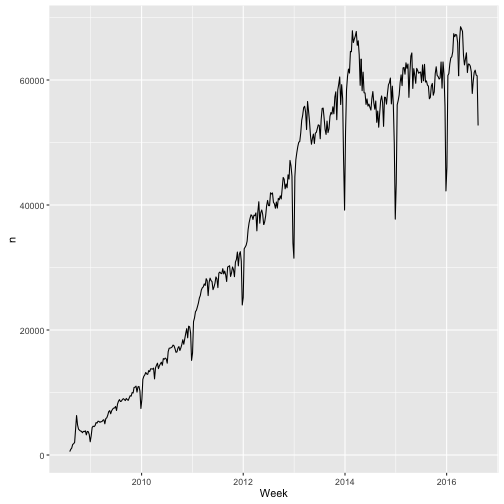
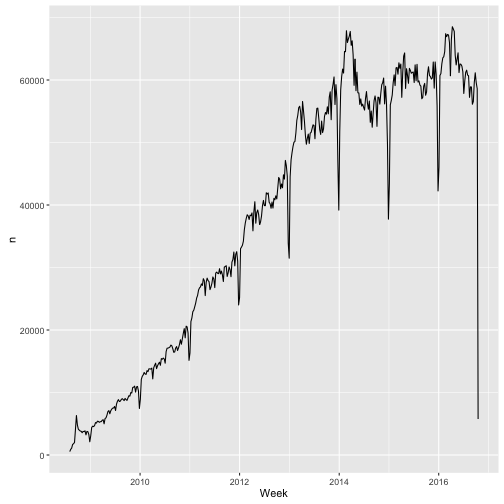
Updated up to 2016-10-12

diff --git a/README.md b/README.md
@@ -30,12 +30,7 @@ This is all public data within the [Stack Exchange Data Dump](https://archive.or
 
 
 
-
-```r
-s <- yaml.load_file("status.yml")
-```
-
-This dataset was extracted from the Stack Overflow database at 2016-08-23 19:50:34 UTC and contains questions up to **2016-08-22**. This includes 12248066 non-deleted questions, and  3510466 deleted ones. (The script for downloading the data can be found in [setup-data.R](setup-data.R), though it can be run only by Stack Overflow employees with database access).
+This dataset was extracted from the Stack Overflow database at 2016-10-13 18:09:48 UTC and contains questions up to **2016-10-12**. This includes 12583347 non-deleted questions, and  3654954 deleted ones. (The script for downloading the data can be found in [setup-data.R](setup-data.R), though it can be run only by Stack Overflow employees with database access).
 
 ### Examples in R
 
@@ -58,20 +53,20 @@ questions
 ```
 
 ```
-## # A tibble: 15,758,532 x 7
+## # A tibble: 16,238,301 × 7
 ##       Id        CreationDate          ClosedDate        DeletionDate Score
-##    <int>              <time>              <time>              <time> <int>
+##    <int>              <dttm>              <dttm>              <dttm> <int>
 ## 1      1 2008-07-31 21:26:37                <NA> 2011-03-28 00:53:47     1
-## 2      4 2008-07-31 21:42:52                <NA>                <NA>   417
-## 3      6 2008-07-31 22:08:08                <NA>                <NA>   187
+## 2      4 2008-07-31 21:42:52                <NA>                <NA>   427
+## 3      6 2008-07-31 22:08:08                <NA>                <NA>   194
 ## 4      8 2008-07-31 23:33:19 2013-06-03 04:00:25 2015-02-11 08:26:40    42
-## 5      9 2008-07-31 23:40:59                <NA>                <NA>  1301
-## 6     11 2008-07-31 23:55:37                <NA>                <NA>  1056
-## 7     13 2008-08-01 00:42:38                <NA>                <NA>   422
-## 8     14 2008-08-01 00:59:11                <NA>                <NA>   271
-## 9     16 2008-08-01 04:59:33                <NA>                <NA>    66
-## 10    17 2008-08-01 05:09:55                <NA>                <NA>   102
-## # ... with 15,758,522 more rows, and 2 more variables: OwnerUserId <int>,
+## 5      9 2008-07-31 23:40:59                <NA>                <NA>  1333
+## 6     11 2008-07-31 23:55:37                <NA>                <NA>  1084
+## 7     13 2008-08-01 00:42:38                <NA>                <NA>   433
+## 8     14 2008-08-01 00:59:11                <NA>                <NA>   276
+## 9     16 2008-08-01 04:59:33                <NA>                <NA>    69
+## 10    17 2008-08-01 05:09:55                <NA>                <NA>   104
+## # ... with 16,238,291 more rows, and 2 more variables: OwnerUserId <int>,
 ## #   AnswerCount <int>
 ```
 
@@ -80,7 +75,7 @@ question_tags
 ```
 
 ```
-## # A tibble: 46,289,964 x 2
+## # A tibble: 47,713,261 × 2
 ##       Id                 Tag
 ##    <int>               <chr>
 ## 1      1                data
@@ -93,7 +88,7 @@ question_tags
 ## 8      6                 css
 ## 9      6                css3
 ## 10     6 internet-explorer-7
-## # ... with 46,289,954 more rows
+## # ... with 47,713,251 more rows
 ```
 
 As one example, you could find the most popular tags:
@@ -105,20 +100,20 @@ question_tags %>%
 ```
 
 ```
-## # A tibble: 56,003 x 2
+## # A tibble: 56,798 × 2
 ##           Tag       n
 ##         <chr>   <int>
-## 1  javascript 1485119
-## 2        java 1432094
-## 3         php 1261151
-## 4          c# 1226977
-## 5     android 1184302
-## 6      jquery  944929
-## 7      python  749745
-## 8        html  704289
-## 9         ios  583383
-## 10        c++  579063
-## # ... with 55,993 more rows
+## 1  javascript 1540123
+## 2        java 1474705
+## 3         php 1296218
+## 4          c# 1258269
+## 5     android 1219858
+## 6      jquery  967536
+## 7      python  782220
+## 8        html  728505
+## 9         ios  602047
+## 10        c++  594281
+## # ... with 56,788 more rows
 ```
 
 Or plot the number of questions asked per week:
